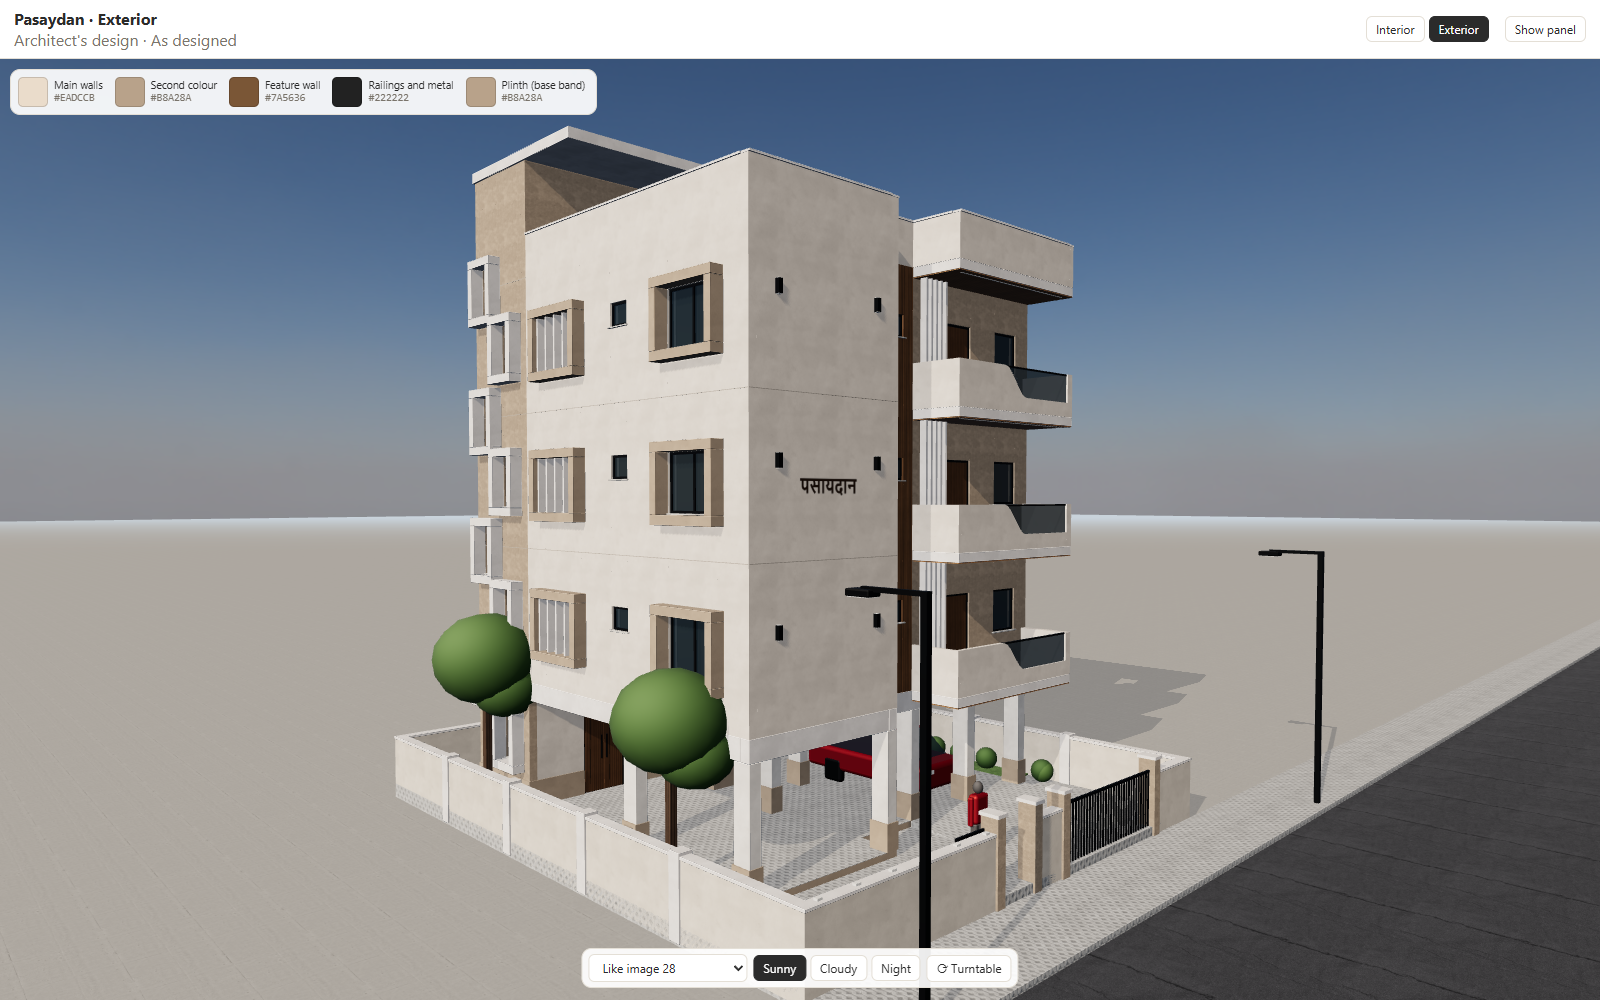
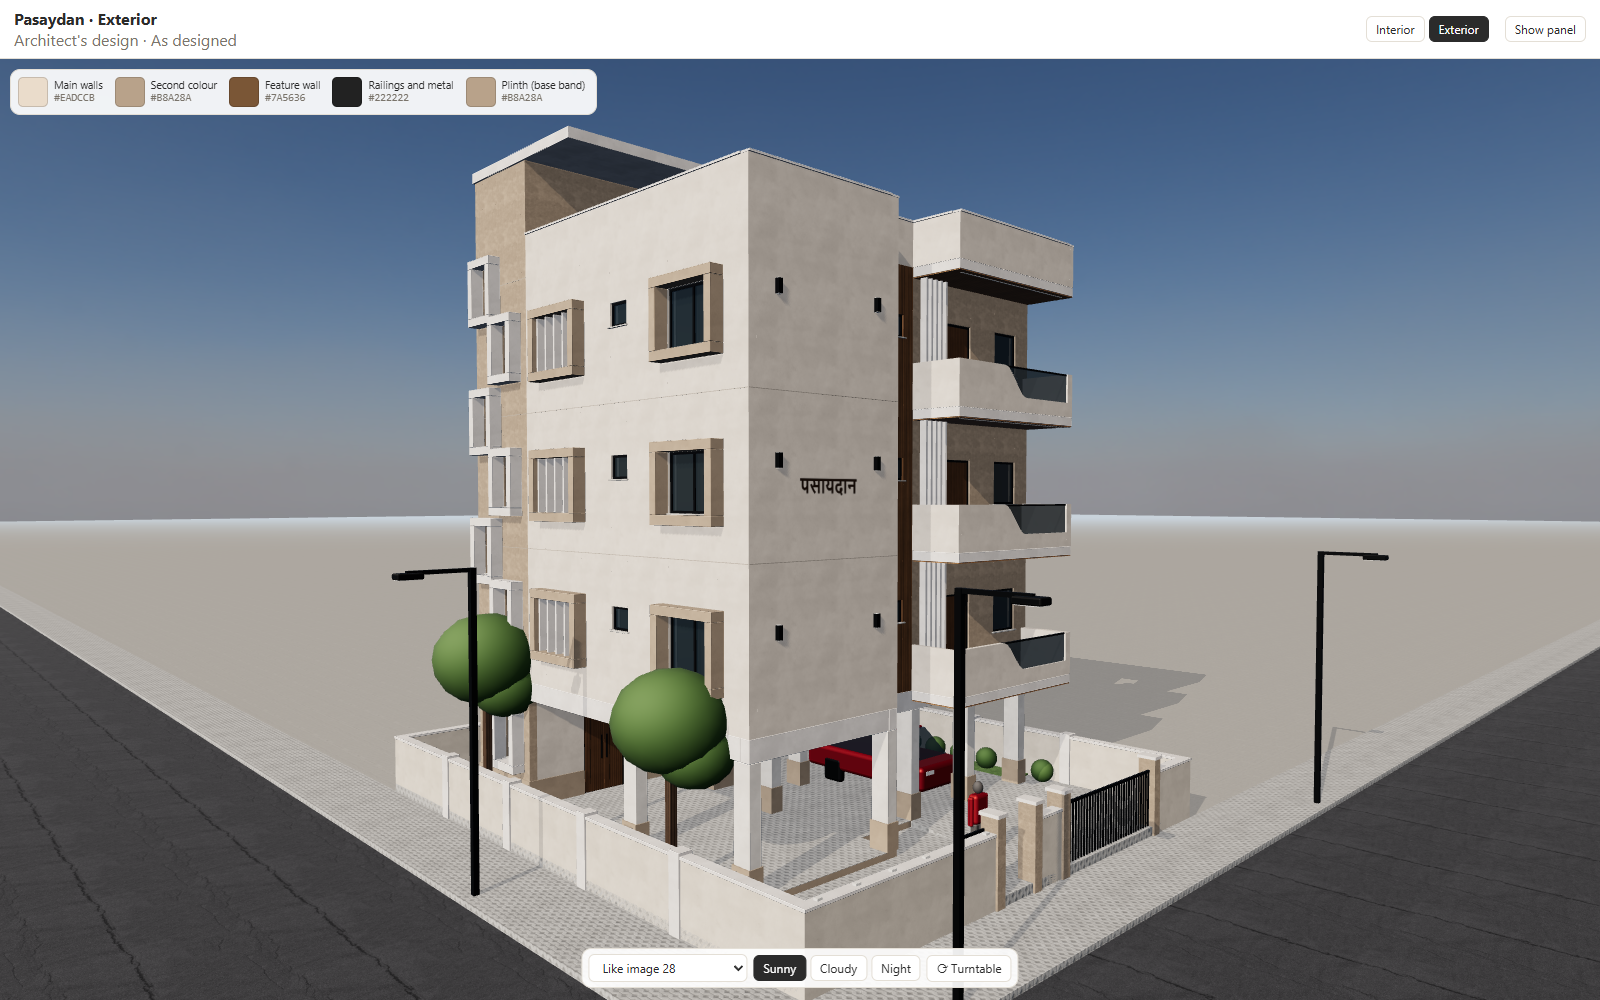
Exterior: side road on the west (windows side), corner plot
- 7.5 m road + 2 m footpath along the west, joining the south road at the corner
- west neighbour moved across the side road; lamp on the west footpath;
  lamp arms reach over their road, night light under the head
- walk mode ground heights for the new footpath / road
- tests for road layout, junction, context clearance, walk heights; docs

diff --git a/src/exterior/model/context.ts b/src/exterior/model/context.ts
@@ -2,7 +2,7 @@
  * Site context for scale (toggled in the View tab, not part of a design): grey neighbour blocks, a parked car,
  * a 1.7 m person and two street lamps.
  */
-import { GATES, PAVING, PLINTH, PLOT, X_WING, Y_NOTCH } from "./building";
+import { FOOTPATH_W, GATES, PAVING, PLINTH, PLOT, WEST_ROAD, X_WING, Y_NOTCH } from "./building";
 import { box } from "./geom";
 import type { Part } from "./types";
 
@@ -13,9 +13,10 @@ const ctx = (slot: string) => ({ floor: -1, slot, element: "context" });
 function neighbours(): Part[] {
   const out: Part[] = [];
   const P = PLOT;
-  // west and east plots: G+3 blocks with a setback; rear: G+2
+  // across the side road (west) and next door (east): G+3 blocks with a setback; rear: G+2
+  const westEdge = WEST_ROAD.x0 - FOOTPATH_W - 1.6; // their front, behind their own footpath and margin
   const blocks: [string, number, number, number, number, number][] = [
-    ["w", P.x0 - 12.5, P.y0 + 3.0, P.x0 - 1.6, P.y1 - 1.2, 4],
+    ["w", westEdge - 10.9, P.y0 + 3.0, westEdge, P.y1 - 1.2, 4],
     ["e", P.x1 + 1.6, P.y0 + 3.4, P.x1 + 12.0, P.y1 - 1.5, 4],
     ["n", P.x0 + 0.5, P.y1 + 1.8, P.x1 - 0.5, P.y1 + 12, 3],
   ];
@@ -24,7 +25,7 @@ function neighbours(): Part[] {
     out.push(box(`ctx-nb-${k}`, "neighbor", { x: x0, y: y0, w: x1 - x0, h: y1 - y0, z0: 0, z1: h }, ctx("site:surroundings")));
     out.push(box(`ctx-nb-${k}-parapet`, "neighbor", { x: x0 - 0.05, y: y0 - 0.05, w: x1 - x0 + 0.1, h: y1 - y0 + 0.1, z0: h, z1: h + 0.9 }, ctx("site:surroundings")));
     // their compound walls on the road side
-    out.push(box(`ctx-nb-${k}-wall`, "neighbor", { x: x0 - 1.2, y: k === "n" ? y0 - 1.2 : P.y0, w: x1 - x0 + 2.4, h: 0.2, z0: 0, z1: 1.5 }, ctx("site:surroundings")));
+    out.push(box(`ctx-nb-${k}-wall`, "neighbor", { x: x0 - 1.2, y: k === "n" ? y0 - 1.2 : P.y0, w: x1 - x0 + (k === "w" ? 2.2 : 2.4), h: 0.2, z0: 0, z1: 1.5 }, ctx("site:surroundings")));
   }
   return out;
 }
@@ -84,20 +85,29 @@ function person(): Part[] {
   ];
 }
 
-/** Two street lamps on the footpath (lit at night). */
-export const STREET_LAMPS: [number, number][] = [
-  [PLOT.x0 + 0.8, PLOT.y0 - 1.7],
-  [PLOT.x1 + 3.5, PLOT.y0 - 1.7],
+/** Street lamps on the footpaths (lit at night): x, y, and the direction the arm reaches out over the road. */
+export const STREET_LAMPS: [number, number, number, number][] = [
+  [PLOT.x0 + 1.6, PLOT.y0 - 1.7, 0, -1],
+  [PLOT.x1 + 3.5, PLOT.y0 - 1.7, 0, -1],
+  [PLOT.x0 - 1.7, PLOT.y0 + 7.5, -1, 0],
 ];
 export const LAMP_H = 6.5;
+/** Where a lamp's light hangs: 1.25 m out along its arm. */
+export const lampHead = ([x, y, dx, dy]: (typeof STREET_LAMPS)[number]): [number, number] => [x + dx * 1.25, y + dy * 1.25];
 function lamps(): Part[] {
   const out: Part[] = [];
-  STREET_LAMPS.forEach(([x, y], i) => {
-    const m = ctx("site:road");
+  STREET_LAMPS.forEach((l, i) => {
+    const [x, y, dx] = l;
+    const along = dx !== 0; // arm along x (west road) or along y (south road)
+    const [hx, hy] = lampHead(l);
+    const m = ctx(along ? "site:roadWest" : "site:road");
     out.push(box(`ctx-lamp-${i}-pole`, "railing", { x: x - 0.06, y: y - 0.06, w: 0.12, h: 0.12, z0: 0.1, z1: LAMP_H }, m));
-    out.push(box(`ctx-lamp-${i}-arm`, "railing", { x: x - 0.04, y: y - 0.04, w: 0.08, h: 1.3, z0: LAMP_H - 0.08, z1: LAMP_H }, m));
-    out.push(box(`ctx-lamp-${i}-head`, "railing", { x: x - 0.15, y: y + 1.0, w: 0.3, h: 0.5, z0: LAMP_H - 0.16, z1: LAMP_H - 0.04 }, { ...m, bevel: 0.03 }));
-    out.push(box(`ctx-lamp-${i}-glow`, "lightGlow", { x: x - 0.12, y: y + 1.03, w: 0.24, h: 0.44, z0: LAMP_H - 0.17, z1: LAMP_H - 0.16 }, m));
+    const ax0 = Math.min(x, hx) - 0.04;
+    const ay0 = Math.min(y, hy) - 0.04;
+    out.push(box(`ctx-lamp-${i}-arm`, "railing", { x: ax0, y: ay0, w: Math.abs(hx - x) + 0.08, h: Math.abs(hy - y) + 0.08, z0: LAMP_H - 0.08, z1: LAMP_H }, m));
+    const [hw, hh] = along ? [0.5, 0.3] : [0.3, 0.5];
+    out.push(box(`ctx-lamp-${i}-head`, "railing", { x: hx - hw / 2, y: hy - hh / 2, w: hw, h: hh, z0: LAMP_H - 0.16, z1: LAMP_H - 0.04 }, { ...m, bevel: 0.03 }));
+    out.push(box(`ctx-lamp-${i}-glow`, "lightGlow", { x: hx - hw / 2 + 0.03, y: hy - hh / 2 + 0.03, w: hw - 0.06, h: hh - 0.06, z0: LAMP_H - 0.17, z1: LAMP_H - 0.16 }, m));
   });
   return out;
 }

diff --git a/tests/exterior/roads.test.ts b/tests/exterior/roads.test.ts
@@ -1,0 +1,49 @@
+import { describe, expect, it } from "vitest";
+import { PLOT, SOUTH_ROAD, WEST_FOOTPATH, WEST_ROAD, X_W } from "../../src/exterior/model/building";
+import { contextParts } from "../../src/exterior/model/context";
+import { isBox } from "../../src/exterior/model/geom";
+import { buildShell } from "../../src/exterior/model/shell";
+import { groundAt } from "../../src/exterior/scene/walk";
+
+const shell = buildShell();
+const box = (id: string) => {
+  const p = shell.parts.find((x) => x.id === id);
+  if (!p || !isBox(p)) throw new Error(id);
+  return p.box;
+};
+
+describe("roads: main road (south) + side road (west, windows side)", () => {
+  it("the side road runs north–south along the west of the plot, beyond its footpath", () => {
+    const r = box("site-road-west");
+    expect(r.x + r.w).toBeCloseTo(WEST_FOOTPATH.x0, 3);
+    expect(r.x + r.w).toBeLessThan(PLOT.x0);
+    expect(r.x + r.w).toBeLessThan(X_W);
+    expect(r.h).toBeGreaterThan(100); // long, perpendicular to the south road
+    expect(r.y).toBeCloseTo(SOUTH_ROAD.y1, 3); // joins the main road
+  });
+
+  it("footpaths meet at the corner and the south footpath does not cross the side road", () => {
+    const s = box("site-footpath");
+    const w = box("site-footpath-west");
+    expect(s.x).toBeCloseTo(WEST_FOOTPATH.x0, 3);
+    expect(w.x).toBeCloseTo(WEST_FOOTPATH.x0, 3);
+    const sw = box("site-footpath-sw");
+    expect(sw.x + sw.w).toBeCloseTo(WEST_ROAD.x0, 3);
+  });
+
+  it("nothing from the context (neighbours, lamps) stands on a road", () => {
+    for (const p of contextParts({ neighbours: true, car: true, person: true })) {
+      if (!isBox(p) || p.role === "lightGlow" || p.id.includes("-arm") || p.id.includes("-head")) continue;
+      const b = p.box;
+      const onWest = b.x < WEST_ROAD.x1 - 1e-3 && b.x + b.w > WEST_ROAD.x0 + 1e-3 && b.y + b.h > SOUTH_ROAD.y1;
+      const onSouth = b.y < SOUTH_ROAD.y1 - 1e-3 && b.y + b.h > SOUTH_ROAD.y0 + 1e-3;
+      expect(onWest || onSouth, p.id).toBe(false);
+    }
+  });
+
+  it("walk heights: side road 0, west footpath 0.1", () => {
+    expect(groundAt((WEST_ROAD.x0 + WEST_ROAD.x1) / 2, PLOT.y0 + 5)).toBe(0);
+    expect(groundAt((WEST_FOOTPATH.x0 + WEST_FOOTPATH.x1) / 2, PLOT.y0 + 5)).toBeCloseTo(0.1);
+    expect(groundAt((WEST_ROAD.x0 + WEST_ROAD.x1) / 2, PLOT.y0 - 1)).toBe(0); // the junction is road, not footpath
+  });
+});

diff --git a/src/exterior/model/shell.ts b/src/exterior/model/shell.ts
@@ -4,6 +4,12 @@
  */
 import { CEILING_M, lobbyContext, openingBand, openings as planOpenings, rooms, stairContext } from "../../../plan/plan";
 import {
+  FOOTPATH_W,
+  ROAD_W,
+  SOUTH_FOOTPATH,
+  SOUTH_ROAD,
+  WEST_FOOTPATH,
+  WEST_ROAD,
   BALCONY,
   CORE_OUTLINE,
   EXT_WALL,
@@ -306,8 +312,14 @@ function siteParts(): Part[] {
   const out: Part[] = [];
   const P = PLOT;
   out.push(box("site-context", "context", { x: P.x0 - 400, y: P.y0 - 400, w: P.x1 - P.x0 + 800, h: P.y1 - P.y0 + 800, z0: -0.12, z1: -0.06 }, { slot: "site:surroundings" }));
-  out.push(box("site-road", "road", { x: P.x0 - 400, y: P.y0 - 9.5, w: P.x1 - P.x0 + 800, h: 7.5, z0: -0.07, z1: -0.02 }, { slot: "site:road" }));
-  out.push(box("site-footpath", "paving", { x: P.x0 - 400, y: P.y0 - 2.0, w: P.x1 - P.x0 + 800, h: 2.0, z0: -0.07, z1: 0.1 }, { slot: "site:road" }));
+  const far = 400;
+  // main road (south) and side road (west, the windows side) meeting at the south-west corner
+  out.push(box("site-road", "road", { x: P.x0 - far, y: SOUTH_ROAD.y0, w: P.x1 - P.x0 + 2 * far, h: ROAD_W, z0: -0.07, z1: -0.02 }, { slot: "site:road" }));
+  out.push(box("site-road-west", "road", { x: WEST_ROAD.x0, y: SOUTH_ROAD.y1, w: ROAD_W, h: P.y1 + far - SOUTH_ROAD.y1, z0: -0.07, z1: -0.02 }, { slot: "site:roadWest" }));
+  // footpaths along the plot; the south one stops where the side road crosses it
+  out.push(box("site-footpath", "paving", { x: WEST_FOOTPATH.x0, y: SOUTH_FOOTPATH.y0, w: P.x1 + far - WEST_FOOTPATH.x0, h: FOOTPATH_W, z0: -0.07, z1: 0.1 }, { slot: "site:road" }));
+  out.push(box("site-footpath-sw", "paving", { x: P.x0 - far, y: SOUTH_FOOTPATH.y0, w: WEST_ROAD.x0 - (P.x0 - far), h: FOOTPATH_W, z0: -0.07, z1: 0.1 }, { slot: "site:road" }));
+  out.push(box("site-footpath-west", "paving", { x: WEST_FOOTPATH.x0, y: P.y0, w: FOOTPATH_W, h: P.y1 + far - P.y0, z0: -0.07, z1: 0.1 }, { slot: "site:roadWest" }));
   out.push(box("site-paving", "paving", { x: P.x0, y: P.y0, w: P.x1 - P.x0, h: P.y1 - P.y0, z0: -0.07, z1: PAVING }, { slot: "site:driveway" }));
   // Garden strips on the sides and rear
   const g = (id: string, x0: number, y0: number, x1: number, y1: number) =>

diff --git a/src/exterior/scene/ExteriorScene.tsx b/src/exterior/scene/ExteriorScene.tsx
@@ -12,7 +12,7 @@ import { resolveElements, resolveRoles, type DesignState } from "../model/resolv
 import { buildShell } from "../model/shell";
 import { BALCONY, CENTER, LOCATION, STILT_BAND, TOP, X_E, X_W, level } from "../model/building";
 import type { LabelPart, Part } from "../model/types";
-import { contextParts, LAMP_H, STREET_LAMPS, type ContextOptions } from "../model/context";
+import { contextParts, lampHead, LAMP_H, STREET_LAMPS, type ContextOptions } from "../model/context";
 import { lightingSources, type LightSpec } from "../model/siteElements";
 // the path tracer is only downloaded when a photo-quality still is requested
 const PhotoStill = lazy(() => import("./PhotoStill").then((m) => ({ default: m.PhotoStill })));
@@ -214,7 +214,10 @@ function NightLights({ design, quality }: { design: DesignState; quality: Qualit
   const els = useMemo(() => resolveElements(design), [design]);
   const lights: LightSpec[] = useMemo(() => {
     const l = els.lighting?.enabled ? lightingSources(els.lighting.slots ?? [], quality === "high") : [];
-    STREET_LAMPS.forEach(([x, y], i) => l.push({ kind: "spot", id: `street-${i}`, pos: [x, y + 1.25, LAMP_H - 0.2], target: [x, y + 2.5, 0], intensity: 60, angle: 0.95, distance: 22 }));
+    STREET_LAMPS.forEach((lamp, i) => {
+      const [hx, hy] = lampHead(lamp);
+      l.push({ kind: "spot", id: `street-${i}`, pos: [hx, hy, LAMP_H - 0.2], target: [hx, hy, 0], intensity: 60, angle: 0.95, distance: 22 });
+    });
     return l;
   }, [els, quality]);
   const warm = "#FFC98A";

diff --git a/src/exterior/scene/walk.ts b/src/exterior/scene/walk.ts
@@ -1,5 +1,5 @@
 /** Walk mode physics (pure, testable): colliders from the model, ground height, sliding movement. */
-import { PAVING, PLINTH, PLOT } from "../model/building";
+import { PAVING, PLINTH, PLOT, SOUTH_FOOTPATH, WEST_FOOTPATH, WEST_ROAD } from "../model/building";
 import { FOOTPRINT_RECTS } from "../model/shell";
 import type { Part } from "../model/types";
 
@@ -24,7 +24,9 @@ export function walkColliders(parts: Part[]): Rect2[] {
 export function groundAt(x: number, y: number): number {
   if (FOOTPRINT_RECTS.some((r) => x >= r.x && x <= r.x + r.w && y >= r.y && y <= r.y + r.h)) return PLINTH;
   if (x >= PLOT.x0 && x <= PLOT.x1 && y >= PLOT.y0 && y <= PLOT.y1) return PAVING;
-  if (y >= PLOT.y0 - 2 && y < PLOT.y0) return 0.1;
+  const onWestRoad = x >= WEST_ROAD.x0 && x < WEST_ROAD.x1;
+  if (y >= SOUTH_FOOTPATH.y0 && y < SOUTH_FOOTPATH.y1 && !onWestRoad) return 0.1; // south footpath
+  if (x >= WEST_FOOTPATH.x0 && x < WEST_FOOTPATH.x1 && y >= SOUTH_FOOTPATH.y0) return 0.1; // west footpath
   return 0;
 }
 

diff --git a/src/exterior/model/slots.ts b/src/exterior/model/slots.ts
@@ -50,7 +50,8 @@ export const SLOTS: Slot[] = [
   { id: "site:gate", label: "Gates and gate pillars", side: "S", kind: "site", floors: [-1] },
   { id: "site:driveway", label: "Driveway and parking floor", side: "S", kind: "site", floors: [-1] },
   { id: "site:garden", label: "Garden strips", side: "S", kind: "site", floors: [-1] },
-  { id: "site:road", label: "Road and footpath", side: "S", kind: "site", floors: [-1] },
+  { id: "site:road", label: "Main road and footpath (south)", side: "S", kind: "site", floors: [-1] },
+  { id: "site:roadWest", label: "Side road and footpath (west, windows side)", side: "W", kind: "site", floors: [-1] },
   { id: "site:surroundings", label: "Surroundings", side: "S", kind: "site", floors: [-1] },
   { id: "win:win-master-w", label: "Master bedroom window", side: "W", kind: "window", floors: FLOORS, openingPlanId: "win-master-w" },
   { id: "win:win-mbath-w", label: "Master bath ventilator", side: "W", kind: "window", floors: FLOORS, openingPlanId: "win-mbath-w" },

diff --git a/src/exterior/model/building.ts b/src/exterior/model/building.ts
@@ -119,6 +119,17 @@ export const BOUNDS = (() => {
 /** Building centre (plan) and a mid height — camera targets. */
 export const CENTER = { x: (X_W + X_E) / 2, y: (BALCONY.S.y + BALCONY.N.y1) / 2, z: TERRACE / 2 };
 
+/**
+ * Roads: the main road on the south (front) and a side road on the west (the windows side), so the plot is a
+ * corner plot. Each road is 7.5 m wide with a 2 m footpath along the plot. [side road: user, 2026-10-02; widths assumed]
+ */
+export const ROAD_W = 7.5;
+export const FOOTPATH_W = 2.0;
+export const SOUTH_FOOTPATH = { y0: PLOT.y0 - FOOTPATH_W, y1: PLOT.y0 };
+export const SOUTH_ROAD = { y0: SOUTH_FOOTPATH.y0 - ROAD_W, y1: SOUTH_FOOTPATH.y0 };
+export const WEST_FOOTPATH = { x0: PLOT.x0 - FOOTPATH_W, x1: PLOT.x0 };
+export const WEST_ROAD = { x0: WEST_FOOTPATH.x0 - ROAD_W, x1: WEST_FOOTPATH.x0 };
+
 export const COMPOUND_H = 1.5;
 /** Gates on the south compound wall (along plan x). [assumed] */
 export const GATES = {

diff --git a/docs/exterior/BUILDING_FACTS.md b/docs/exterior/BUILDING_FACTS.md
@@ -25,7 +25,9 @@ How #28 maps onto the plan (confirmed against the openings): the **balcony face 
 |---|---|---|
 | Building type | Apartment block: stilt (parking) ground floor + 3 identical residential floors, **one 2BHK flat per floor**, no penthouse | [plan] + your answer |
 | Location | Ahilyanagar (Ahmednagar), Maharashtra. Lat **19.09° N**, long **74.74° E** | Section 0; coordinates [assumed: city centre] |
-| Front of the building faces | **South**: the road is on the south (confirmed). The arrow on the plan drawing is ignored | Section 0 + your answer |
+| Front of the building faces | **South**: the main road is on the south (confirmed). The arrow on the plan drawing is ignored | Section 0 + your answer |
+| Side road | **West** (the windows side): a second road perpendicular to the main road, so the plot is a **corner plot** | your request, 2026-10-02 |
+| Road widths | Both roads 7.5 m, each with a 2.0 m footpath along the plot; they meet at the south-west corner | [assumed] |
 | Plot size | **2 gunthas = 202.3 m² (2,178 sq ft)** [you]. Shape [assumed]: rectangle **13.0 m (E–W) × 15.56 m (N–S)**, giving margins of 1.32 m on the east and west, 1.40 m at the rear (north) and 2.53 m at the front (south, from the balcony face) | your answer + [assumed] |
 | Plot shape | The source drawing has a slanted line across the top (north), which may be a non-rectangular plot boundary. Modelled as a rectangle for now | [plan] drawing; [assumed] |
 
@@ -103,7 +105,7 @@ The **master bedroom's south wall has no window** [plan]. It's the obvious place
 
 ## Facing (resolved)
 
-The road is on the **south**. The street sees:
+The main road is on the **south** and a side road runs along the **west** (windows side), so the plot is a corner plot. From the side road you see the whole west face: the bedroom windows with their box frames, the staggered staircase windows, and the stair tower. The main road sees:
 - the master bedroom's blank south wall (name sign)
 - the 1.0 m recess with the full-height wood strip
 - the stacked south balconies

diff --git a/docs/exterior/DECISIONS.md b/docs/exterior/DECISIONS.md
@@ -2,6 +2,13 @@
 
 Newest first. **[open]** = waiting on your answer.
 
+## 2026-10-02: side road on the west (windows side)
+
+- **The plot is now a corner plot.** A road runs along the west, on the windows side, perpendicular to the main road on the south. Both roads are 7.5 m wide with a 2 m footpath along the plot [assumed widths]. They meet at the south-west corner, where the south footpath stops and the road crosses. The layout constants are in `building.ts` (`SOUTH_ROAD`, `WEST_ROAD`, footpaths).
+- **Context:** the grey west neighbour (toggle) now stands across the side road. A third street lamp stands on the west footpath. All lamp arms now reach out over their road, with the night light under the lamp head.
+- **Walk mode:** the west footpath is 0.1 m high and the side road is at road level.
+- **Unchanged:** the compound wall on the west and both gates (south). Tell me if you want a gate or an entrance from the side road too.
+
 ## 2026-10-02: Phase 5 (compare, save, export) and shipping
 
 - **Compare (E):**

diff --git a/README.md b/README.md
@@ -8,7 +8,7 @@ An interactive 2D floor plan and 3D model of a typical 1st to 3rd floor 2BHK in 
 
 ## Exterior module
 
-A realistic 3D model of the outside of the building (Pasaydan, Ahilyanagar: stilt parking + 3 flats, road on the south) that you can restyle. You can switch design patterns, colour sets, materials and facade elements. The building itself stays as the architect designed it. The exterior reads the same floor plan as the interior (`plan/plan.ts`) and never changes it.
+A realistic 3D model of the outside of the building (Pasaydan, Ahilyanagar: stilt parking + 3 flats, corner plot with the main road on the south and a side road on the west) that you can restyle. You can switch design patterns, colour sets, materials and facade elements. The building itself stays as the architect designed it. The exterior reads the same floor plan as the interior (`plan/plan.ts`) and never changes it.
 
 ![Warm curves pattern](docs/exterior/screenshots/p4-photo-still.png)
 
